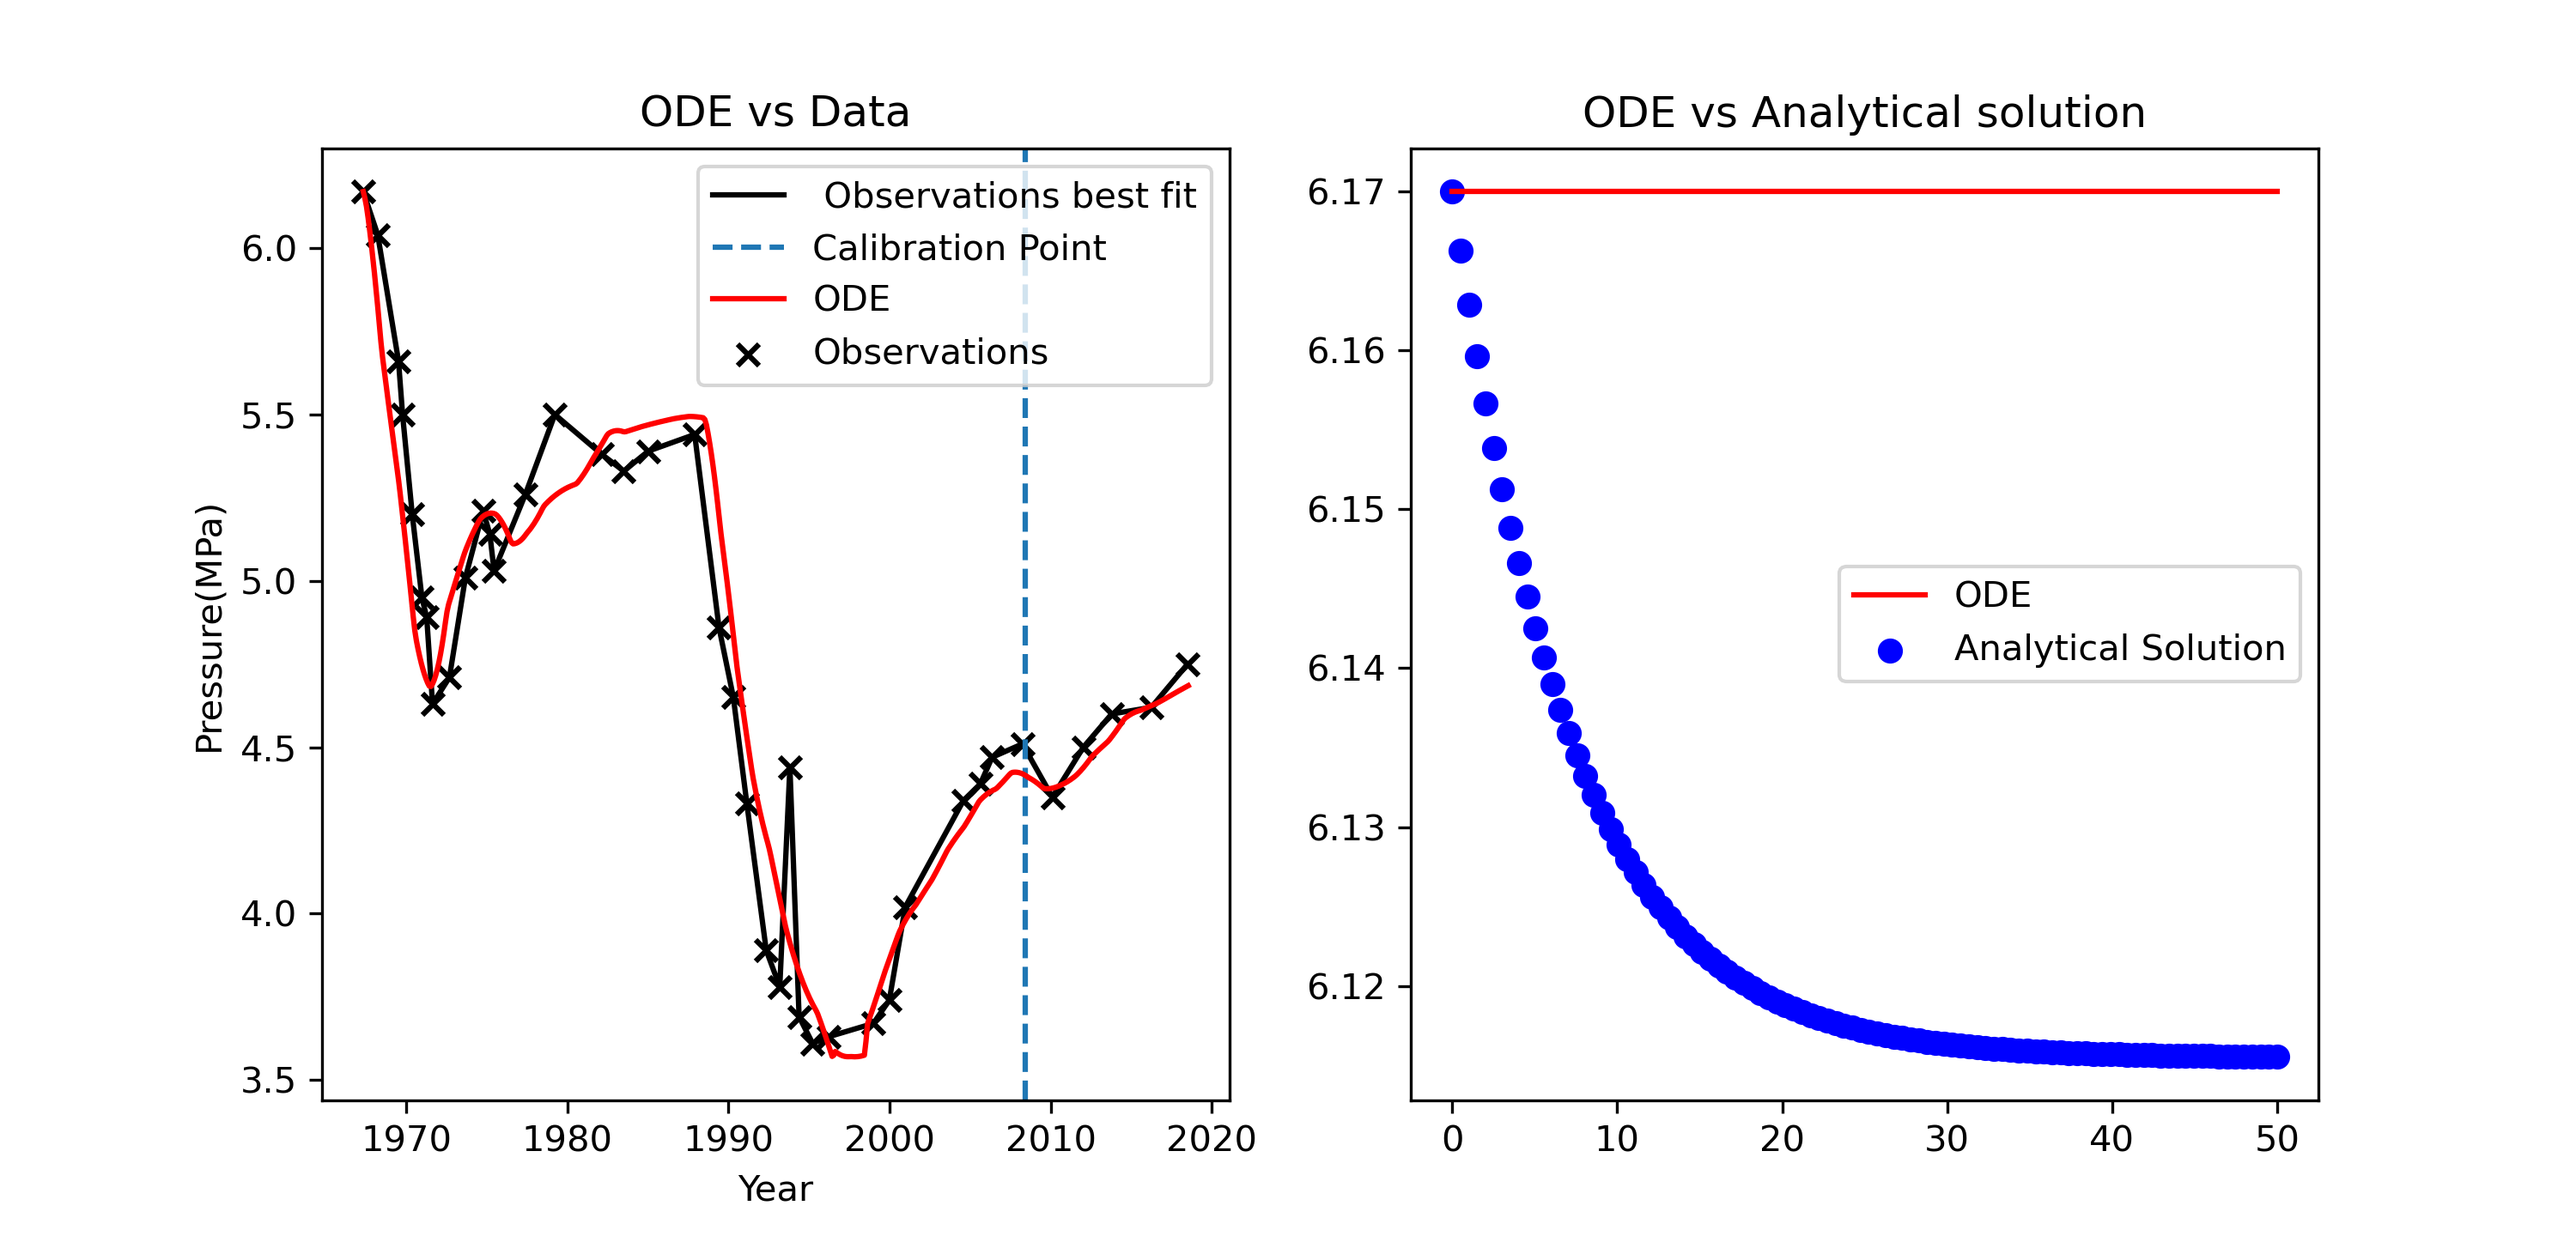
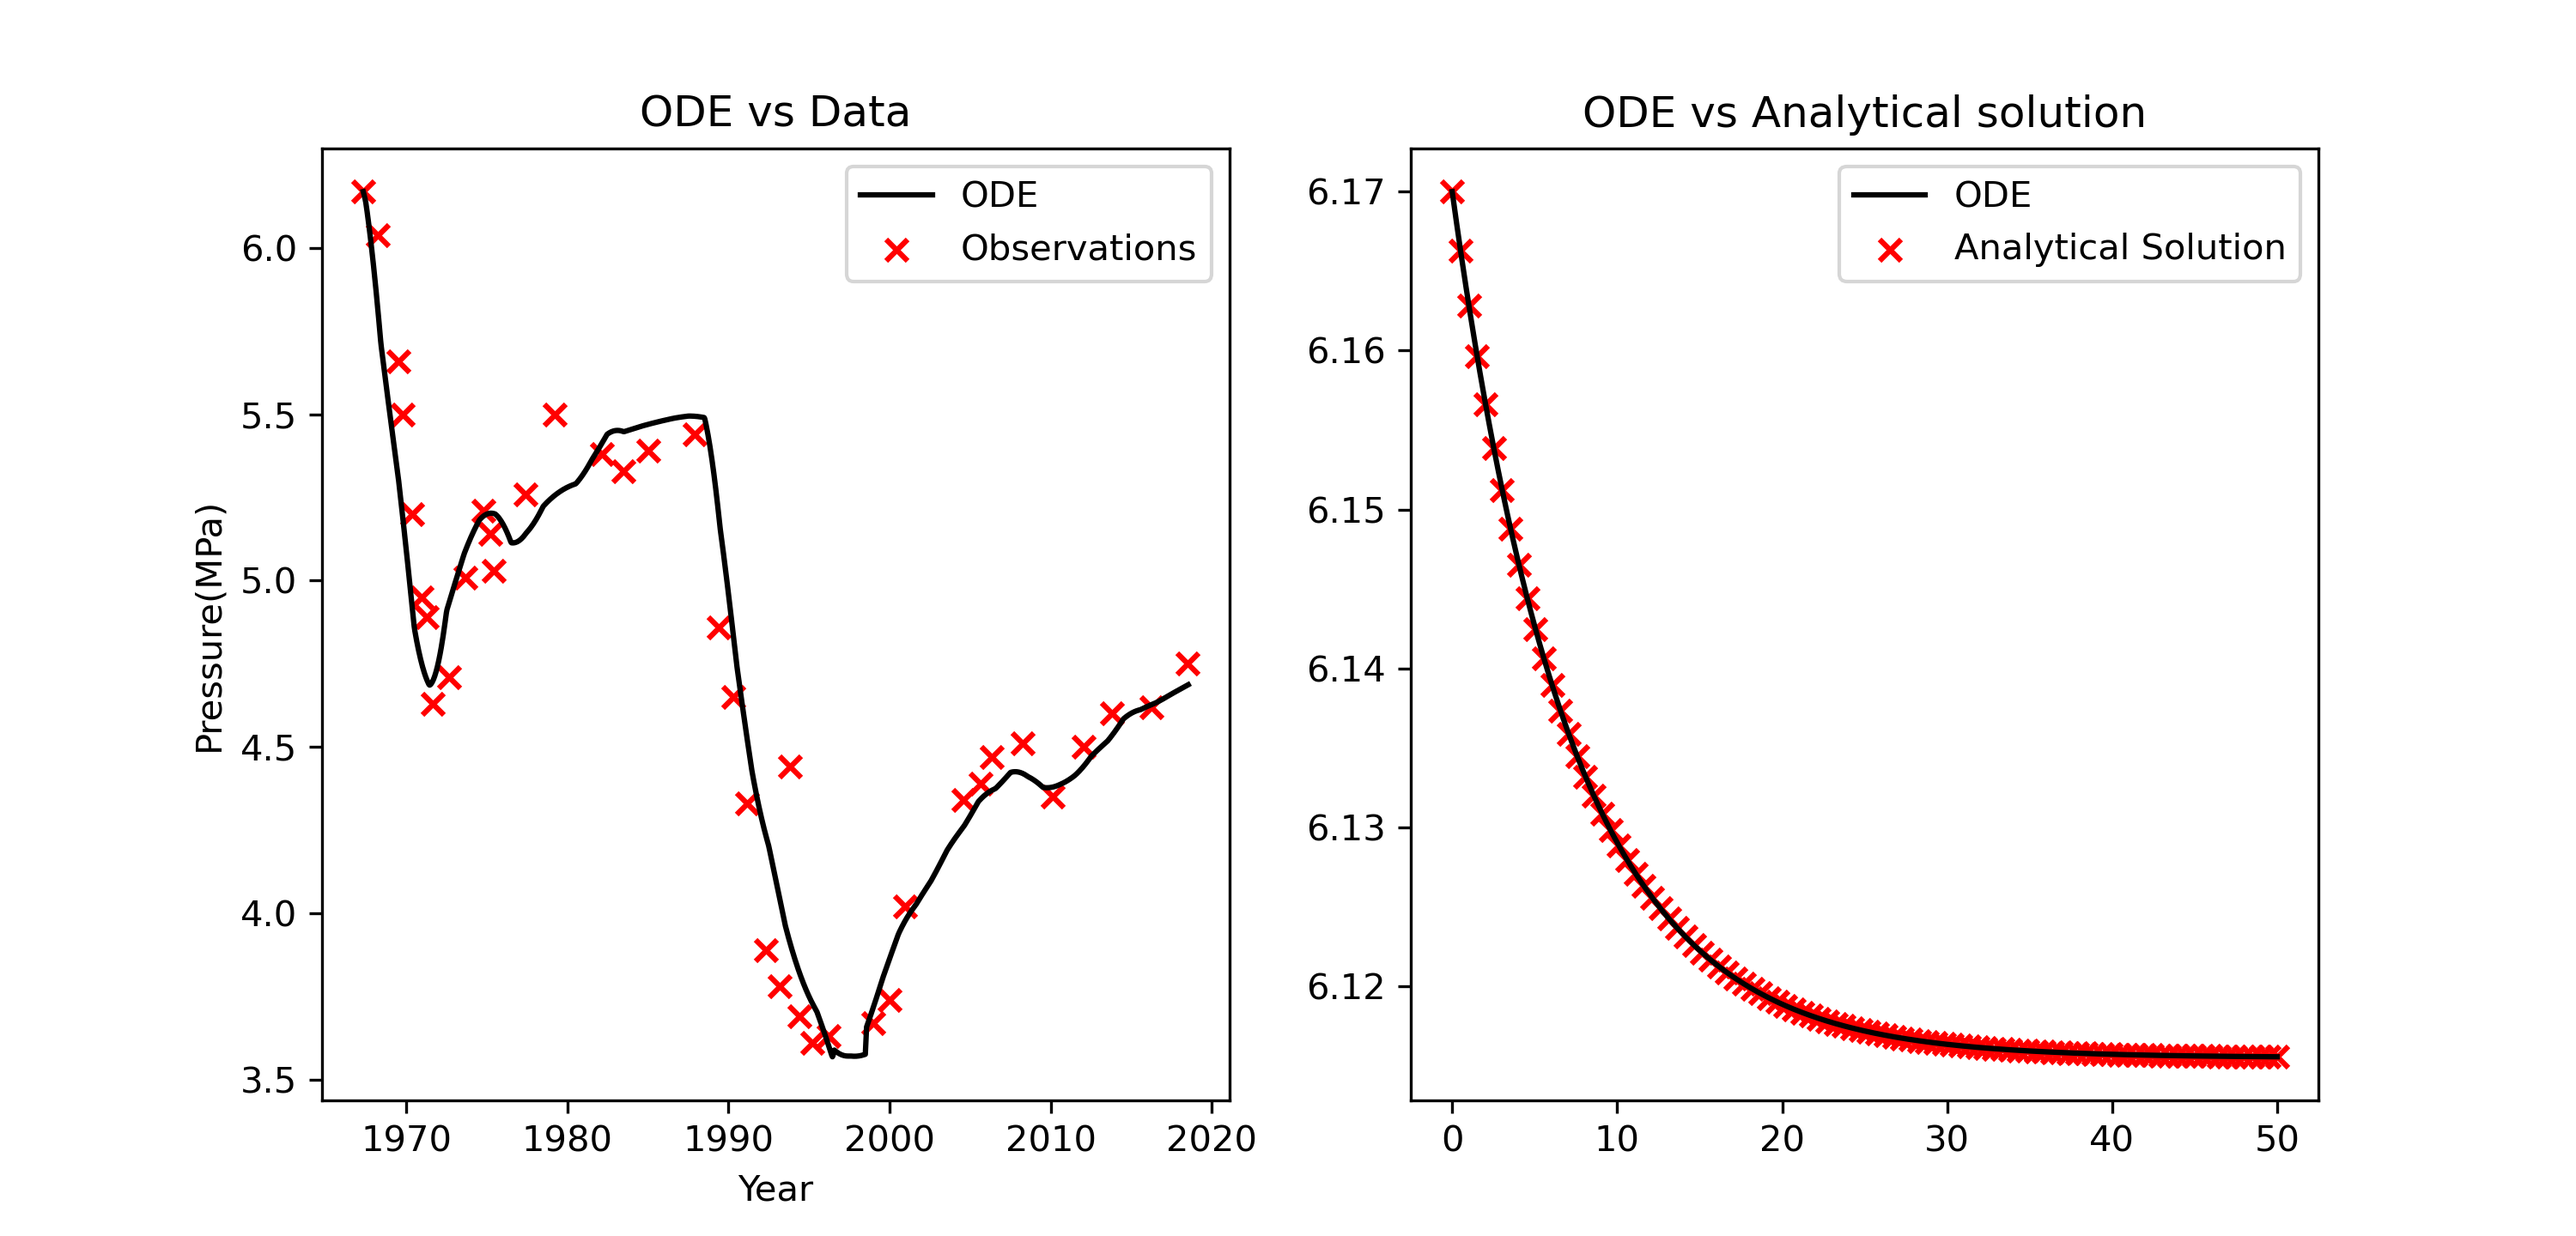
Made changes to plotters

diff --git a/project_1/plot_lpm.py b/project_1/plot_lpm.py
@@ -7,9 +7,14 @@ from scipy.interpolate import interp1d
 from load_data import *
 from lpm_model_functions import *
 
+## Define global Variables
 TIME_P, PRESSURE = load_pressure_data()
 TIME_C, CONC = load_c02_wt_data()
-STEP = 0.1
+a, b, c, calibrationPointP = find_pars_pressure()
+d, m0, calibrationPointC = find_pars_conc()
+PARS_P = [a, b, c]
+PARS_C = [a, b, d, m0]
+STEP = 0.04
 
 # Pressure benchmarking plotter
 def plot_pressure_benchmark():
@@ -24,21 +29,15 @@ def plot_pressure_benchmark():
     """
     PLOT DATA vs ODE
     """
-
-    # find correct parameters for a,b and c to fit the model well
-    a, b, c, calibrationPoint = find_pars_pressure()
-    pars = [a,b,c]
-    # solve ode using found parameaters
-    t_ode, p_ode = solve_pressure_ode(pressure_ode_model, TIME_P[0], PRESSURE[0], TIME_P[-1], STEP, pars)
-
+    # Get solution to ODE using improved Euler
+    t_ode, p_ode = solve_pressure_ode(pressure_ode_model, TIME_P[0], PRESSURE[0], TIME_P[-1], STEP, PARS_P)
 
     # plot the data observations
-    ax1.plot(TIME_P, PRESSURE,color='k', label =' Observations best fit')
-    ax1.scatter(TIME_P, PRESSURE,color='k', marker = 'x', label ='Observations')
-    ax1.axvline(t_ode[calibrationPoint], linestyle = '--', label = 'Calibration Point')
+    ax1.scatter(TIME_P, PRESSURE,color='r', marker = 'x', label ='Observations')
+    #ax1.axvline(t_ode[calibrationPointP], linestyle = '--', label = 'Calibration Point')
 
     # plot the model solution
-    ax1.plot(t_ode, p_ode, color = 'r', label = 'ODE')
+    ax1.plot(t_ode, p_ode, color = 'k', label = 'ODE')
     ax1.set_title('ODE vs Data')
     ax1.set_ylabel("Pressure(MPa)")
     ax1.set_xlabel("Year")
@@ -47,56 +46,24 @@ def plot_pressure_benchmark():
     """
     PLOT BENCHMARKING!
     """
+    # Initalise values for benchmarking analytical solution.
+    q = 4                           # constant flow rate
+    time = np.linspace(0, 50, 100)  # time array
+    conc = 0                        # concentration
 
-    # get average net production rate
-    q = 4
-    time = np.linspace(0, 50, 100)
-    conc = 0
-    pars_2 = [q, conc, *pars]
-    t_odeA, p_odeA = solve_pressure_const_q(pressure_ode_model, time[0], PRESSURE[0], time[-1], STEP, pars_2)
-    p_ana = pressure_analytical_solution(time, q, a, b, c)
-    ax2.plot(t_odeA, p_odeA, color = 'r', label = 'ODE')
-    ax2.scatter(time, p_ana, color = 'b', label = 'Analytical Solution')
+    # Get values for pressure to Benchmark using the numerical solver.
+    t_odeA, p_odeA = solve_pressure_const_q(pressure_ode_model, time[0], PRESSURE[0], time[-1], STEP, [q, conc, *PARS_P])
+    # Get values of pressure using the analytical solution
+    p_ana = pressure_analytical_solution(time, q, *PARS_P)
+
+    ## Plot analytical solution and numerical solver solution against eachother
+    ax2.plot(t_odeA, p_odeA, color = 'black', label = 'ODE')
+    ax2.scatter(time, p_ana, color = 'r', marker = 'x', label = 'Analytical Solution')
     ax2.set_title('ODE vs Analytical solution')
     ax2.legend()
     plt.savefig('model_vs_ODE_analytical.png',dpi=300)
     plt.show()
 
-    """
-    PLOT Convergence analysis
-    """
-
-    step_nums = np.linspace(0.001, 20, 200)
-    p_at1983 = np.zeros(len(step_nums))
-
-    for i in range(len(step_nums)):
-        t, p = solve_pressure_ode(pressure_ode_model, TIME_P[0], PRESSURE[0], 1983, step_nums[i], pars = [a, b, c])
-        p_at1983[i] = p[-1]
-
-    fig, (ax1, ax2) = plt.subplots(1,2)
-    ax1.scatter(step_nums, p_at1983, s = 9, color = 'r')
-    ax1.set_ylabel('Pressure(MPa) at year = 1983')
-    ax1.yaxis.set_major_formatter(mtick.FormatStrFormatter('%.2f'))
-    ax1.set_xlabel('Step Size')
-
-    # Compute convergence analysis for step size 0-2 to obtain better visualization
-    step_nums = np.linspace(0.001, 2, 100)
-    p_at1983 = np.zeros(len(step_nums))
-
-    for i in range(len(step_nums)):
-        t, p = solve_pressure_ode(pressure_ode_model, TIME_P[0], PRESSURE[0], 1983, step_nums[i], pars = [a, b, c])
-        p_at1983[i] = p[-1]
-
-    # Plot data points for convergence analyaia
-    ax2.scatter(step_nums, p_at1983, s = 9, color = 'r', label = "Pressure(MPa) at x = step size")
-    ax2.yaxis.set_major_formatter(mtick.FormatStrFormatter('%.2f'))
-    ax2.set_xlabel('Step Size')
-    #Lables axis and give a tite
-    plt.suptitle('Convergence analysis for step size for p(t=1983) and h = 0.001 - 20 ')
-    # Display legend and graph
-    plt.legend()
-    plt.savefig('ConvergenceAnalysis_pressureModel.png',dpi=300)
-    plt.show()
 
     """
     PLOT RMS misfit between data and ODE
@@ -110,7 +77,7 @@ def plot_pressure_benchmark():
     for i in range(len(p_data_interp)):
         misfit[i] = p_ode[i] - p_data_interp[i]
 
-    plt.scatter(ts, misfit, s = 9)
+    plt.scatter(ts, misfit, s = 9, marker = 'x', color = 'r', label = 'Misfit')
     plt.axhline(y=0, color = 'black', linestyle = '--')
     plt.ylabel('Misfit',fontsize=10)
     plt.xlabel('Time',fontsize=10)
@@ -122,16 +89,8 @@ def plot_pressure_benchmark():
 # Conc Benchmarking PLotter
 def plot_conc_benchmark():
 
-    d, m0, calibrationPoint = find_pars_conc()
-    print(d, m0)
 
-    a,b, __,_ = find_pars_pressure()
-
-    pars = [a, b, d, m0]
-    step = 0.1
-    #subpars = [a, b, PRESSURE[0]]
-    p0 = PRESSURE[0]
-    t_ode, c_ode = solve_conc_ode(conc_ODE_model, TIME_C[0], 0.03, TIME_C[-1], STEP, p0, pars)
+    t_ode, c_ode = solve_conc_ode(conc_ODE_model, TIME_C[0], 0.03, TIME_C[-1], STEP, PRESSURE[0], PARS_C)
     plt.plot(t_ode, c_ode, label = "ode model")
     plt.plot(TIME_C, CONC, 'o', label='data')
     plt.legend()
@@ -142,7 +101,7 @@ def plot_conc_benchmark():
     # plot analytical solution
     plt.plot(time, c_ana, color = 'b', label = "Analytical Solution")
     # plot the model solution
-    t_ode, c_ode = solve_conc_ode_ana(conc_ODE_model, TIME_C[0], 0.03, TIME_C[-1], STEP, p0, pars)
+    t_ode, c_ode = solve_conc_ode_ana(conc_ODE_model, TIME_C[0], 0.03, TIME_C[-1], STEP, PRESSURE[0], PARS_C)
     plt.plot(t_ode, c_ode, label = "ode model")
     plt.legend()
     plt.show()
@@ -155,7 +114,7 @@ def plot_conc_benchmark():
     end_c = np.zeros(len(step_nums))
 
     for i in range(len(step_nums)):
-        t, c = solve_conc_ode(conc_ODE_model, TIME_C[0], 0.03, 2005, step_nums[i], p0, pars)
+        t, c = solve_conc_ode(conc_ODE_model, TIME_C[0], 0.03, 2005, step_nums[i], PRESSURE[0], PARS_C)
         end_c[i] = c[-1]
 
     fig, (ax1, ax2) = plt.subplots(1,2)
@@ -169,7 +128,7 @@ def plot_conc_benchmark():
     end_c = np.zeros(len(step_nums))
 
     for i in range(len(step_nums)):
-        t, c = solve_conc_ode(conc_ODE_model, TIME_C[0], 0.03, 2005, step_nums[i], p0, pars)
+        t, c = solve_conc_ode(conc_ODE_model, TIME_C[0], 0.03, 2005, step_nums[i], PRESSURE[0], PARS_C)
         end_c[i] = c[-1]
 
     # Plot data points for convergence analyaia
@@ -203,25 +162,21 @@ def plot_conc_benchmark():
     plt.title('Misfit ODE vs interpolated data for concentration')
     plt.savefig('misfitModel_vs_data_conc',dpi=300)
     plt.show()
-
+    
 # Plot Model predictions
 def plot_model_predictions():
     fig, (ax1, ax2) = plt.subplots(1, 2)
     fig.set_figwidth(12)
     plt.subplots_adjust(None, None, None,None, wspace=None, hspace=None)
-    lines = []
-    d, m0, calibrationPoint = find_pars_conc()
-    a,b,c,_ = find_pars_pressure()
-    pars_pressure = [a,b, c]
-    pars_conc = [a, b, d, m0]
+
 
     # model
-    t_ode, p_ode = solve_pressure_ode(pressure_ode_model, TIME_P[0], PRESSURE[0], TIME_P[-1], STEP, pars_pressure)
+    t_ode, p_ode = solve_pressure_ode(pressure_ode_model, TIME_P[0], PRESSURE[0], TIME_P[-1], STEP, PARS_P)
     # plot the data observations
     p1, = ax1.plot(TIME_P, PRESSURE,color='k')
     # plot the model solution
     ax1.plot(t_ode, p_ode, color = 'r')
-    tc_ode, c_ode = solve_conc_ode(conc_ODE_model, TIME_C[0], CONC[0], TIME_C[-1], STEP, PRESSURE[0], pars_conc)
+    tc_ode, c_ode = solve_conc_ode(conc_ODE_model, TIME_C[0], CONC[0], TIME_C[-1], STEP, PRESSURE[0], PARS_C)
     p2, = ax2.plot(tc_ode, c_ode, color = 'r')
     ax2.plot(TIME_C, CONC, color = 'k')
 
@@ -229,6 +184,7 @@ def plot_model_predictions():
     endTime = TIME_P[-1] + 30                     # 30 years projection
     nt = int(np.ceil((endTime-TIME_P[-1])/STEP))	# compute number of Euler steps to take
     ts = TIME_P[-1]+np.arange(nt+1)*STEP			# x array
+
     t1, q_raw = load_production_data()
     t2, co2_raw = load_injection_data()
     q_prod = np.interp(ts, t1, q_raw)
@@ -242,7 +198,7 @@ def plot_model_predictions():
     for i in range(len(injRates)):
         q_net = q_prod[-1] - (q_inj[-1])*injRates[i]
         q_newInj = (q_inj[-1])*injRates[i]
-        t, p, c = get_p_conc_forecast(ts, pars_conc, pars_pressure, q_net, q_newInj)
+        t, p, c = get_p_conc_forecast(ts, PARS_C, PARS_P , q_net, q_newInj)
         ax1.plot(t, p, color=colours[i], label = labels[i])
         ax2.plot(t, c, color=colours[i], label = labels[i])
 
@@ -251,6 +207,6 @@ def plot_model_predictions():
     return
 
 if __name__ == "__main__":
-    #plot_pressure_benchmark()
+    plot_pressure_benchmark()
     #plot_conc_benchmark()
-    plot_model_predictions()
+    #plot_model_predictions()

diff --git a/project_1/lpm_model_functions.py b/project_1/lpm_model_functions.py
@@ -5,14 +5,15 @@ import math
 from scipy.optimize import curve_fit
 from scipy.interpolate import interp1d
 from load_data import *
+
 # Define global variables
 TIME_P, PRESSURE = load_pressure_data()
 TIME_C, CONC = load_c02_wt_data()
-STEP = 0.1
+STEP = 0.04
 """
 ### PRESSURE FUNCTIONs
 """
-### Curve fitting functions
+### Pressure curve fitting functions
 def curve_fit_pressure(t, a, b, c):
     '''
     Solve pressure ode with the given paramters
@@ -79,7 +80,7 @@ def find_pars_pressure():
     trainingSize = math.ceil(0.8*len(ts)) # get length training array
 
     # use curve_fit to find pars that give best fit ODE to data.
-    parameters, covariance = curve_fit(curve_fit_pressure, ts[0:trainingSize], pi[0:trainingSize], pars)
+    parameters, covariance = curve_fit(curve_fit_pressure, ts[0:trainingSize], pi[0:trainingSize+1], pars)
     # return pars, a, b, c and also calibration point.
     return parameters[0], parameters[1], parameters[2], trainingSize
 def get_q_dq_conc(t):
@@ -190,7 +191,7 @@ def pressure_ode_model(t, p, p0, dq, q, conc, a, b, c):
         q = q + qloss #q loss reduces qc02 therefore add to net flow.
     dpdt =  -a*q - b*(p-p0) - c*dq  # calculate derivative# #
     return dpdt#comment done
-#### numerical Solvers
+#### Numerical Solvers
 def improved_euler_step(f, tk, yk, h, y0, pars):
     '''
     Computes dp/dt at a specific time given parameters
@@ -314,7 +315,7 @@ def solve_pressure_const_q(f, t0, y0, t1, h, pars):
 '''
 ### Concentration Functions
 '''
-### Curve fitting functions
+### Concentration curve fitting functions
 def curve_fit_conc(t, d, m0):
     '''
     Solve pressure ode with the given paramters
